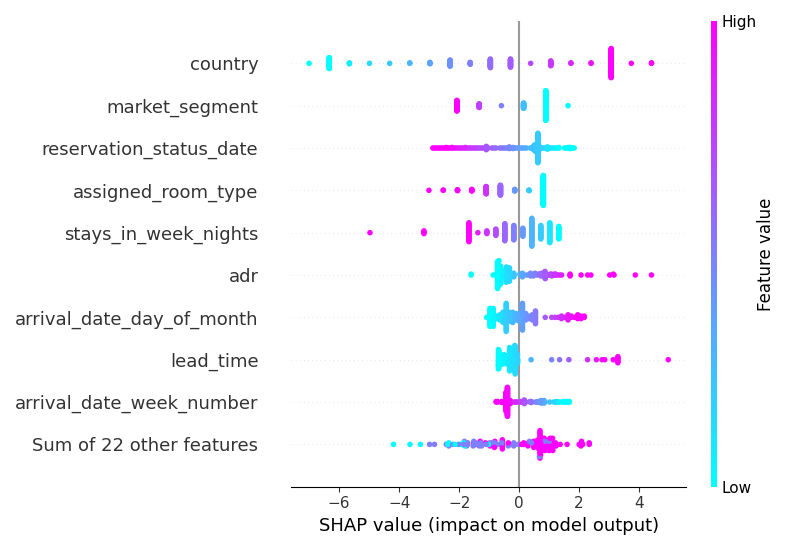
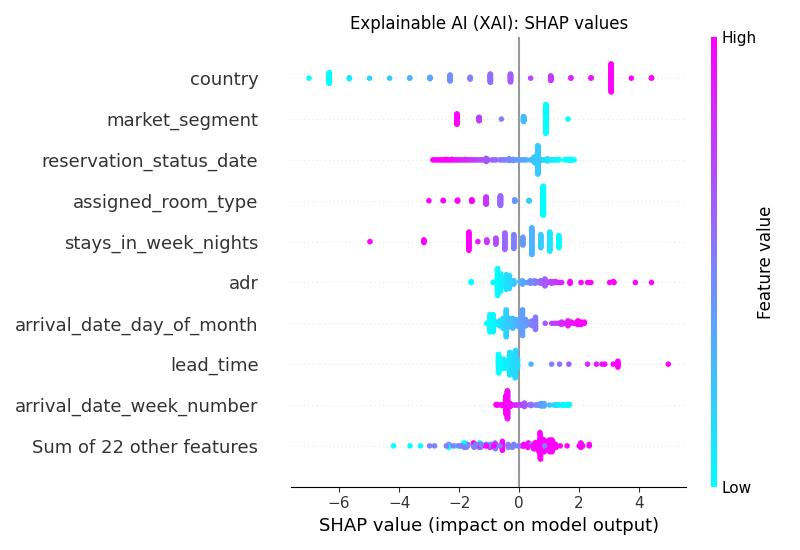
added a bar plot with the number of bookings per month

diff --git a/dash_app.py b/dash_app.py
@@ -52,7 +52,7 @@ TAKEN FROM 17
 The solution for applying bold text to a HTML header was taken from https://community.plotly.com/t/how-can-i-show-a-bold-text-output/52798
 
 TAKEN FROM 18
-The code for creating a bar plot and preparing its data using Plotly was taken from https://plotly.com/python/bar-charts/
+The code for creating a pie plot and preparing its data using Plotly was taken from https://plotly.com/python/pie-charts/
 
 TAKEN FROM 19
 The code for saving a static image using Plotly was taken from https://plotly.com/python/static-image-export/
@@ -62,6 +62,15 @@ The code for summing up values form a Pandas dataframe based on a condition was 
 
 TAKEN FROM 21
 The code for creating a sidebar using Bootstrap for Dash apps was taken from https://www.dash-bootstrap-components.com/examples/simple-sidebar/
+
+TAKEN FROM 22
+The code for using a grid for the website layout was taken from https://www.dash-bootstrap-components.com/docs/components/layout/
+
+TAKEN FROM 23
+The code for creating a bar plot and preparing its data using Plotly was taken from https://plotly.com/python/bar-charts/
+
+TAKEN FROM 24
+The code for using Boolean conditions in single code line for pandas dataframes was taken from https://stackoverflow.com/a/27360130
 """
 
 import random
@@ -89,7 +98,7 @@ max_iter_lr = 1000
 # TAKEN FROM START 1
 
 """
-Create a table with how many bookings the travel agents made and a bar chart displaying the number of bookings made with each TA
+Create a table with how many bookings the travel agents made and a pie chart displaying the number of bookings made with each TA
 """
 
 hotel_bookings_dataset = pd.read_csv("data/hotel_bookings.csv")
@@ -145,7 +154,7 @@ lr_model.fit(X_train, y_train)
 y_pred = lr_model.predict(X_test)
 accuracy = accuracy_score(y_test, y_pred)
 roc_auc = roc_auc_score(y_test, y_pred)
-print("Accuracy = ", accuracy)
+print("Prediction accuracy = ", accuracy)
 print("Area under the ROC curve = ", roc_auc)
 # TAKEN FROM END 4
 assert (accuracy >= 0.5)
@@ -161,17 +170,41 @@ shap_values = model_output_explainer(X_train)
 shap.plots.beeswarm(shap_values, color=plt.get_cmap("cool"), show=False)
 # TAKEN FROM END 9
 # TAKEN FROM START 10
+plt.title("Explainable AI (XAI): SHAP values")
 plt.savefig("assets/shap_values_beeswarm_plot.png")
 # TAKEN FROM END 10
 
 # TAKEN FROM START 18
-current_fig = px.bar(data_frame=travel_agents_and_no_bookings_dataframe,
-                     y=travel_agents_and_no_bookings_dataframe["No. of bookings"],
-                     x=travel_agents_and_no_bookings_dataframe["Travel Agent ID"],
+current_fig = px.pie(data_frame=travel_agents_and_no_bookings_dataframe,
+                     values=travel_agents_and_no_bookings_dataframe["No. of bookings"],
+                     names=travel_agents_and_no_bookings_dataframe["Travel Agent ID"],
                      color_discrete_sequence=px.colors.sequential.Plotly3)
 # TAKEN FROM END 18
 # TAKEN FROM START 19
-current_fig.write_image("assets/travel_agents_and_no_bookings_bar_plot.png")
+current_fig.write_image("assets/travel_agents_and_no_bookings_pie_plot.png")
+# TAKEN FROM END 19
+
+# TAKEN FROM START 6, 7
+no_bookings_per_month = hotel_bookings_dataset["arrival_date_month"].astype(int).value_counts()
+# TAKEN FROM END 6, 7
+# TAKEN FROM START 8
+no_bookings_per_month_dataframe = pd.DataFrame(data=no_bookings_per_month).reset_index()
+# TAKEN FROM END 8
+no_bookings_per_month_dataframe.columns = ["Month", "No. of bookings"]
+no_bookings_per_month_dataframe["Month"] = no_bookings_per_month_dataframe[
+    "Month"].astype(str)
+# TAKEN FROM START 24
+no_bookings_per_month_dataframe = no_bookings_per_month_dataframe.drop(
+    no_bookings_per_month_dataframe[no_bookings_per_month_dataframe["Month"] == "0"].index)
+# TAKEN FROM END 24
+# TAKEN FROM START 23
+current_fig = px.bar(data_frame=no_bookings_per_month_dataframe,
+                     y=no_bookings_per_month_dataframe["No. of bookings"],
+                     x=no_bookings_per_month_dataframe["Month"],
+                     color_discrete_sequence=px.colors.sequential.Plotly3)
+# TAKEN FROM END 23
+# TAKEN FROM START 19
+current_fig.write_image("assets/no_bookings_per_month_bar_plot.png")
 # TAKEN FROM END 19
 
 # TAKEN FROM START 21
@@ -218,23 +251,32 @@ content_statistics_bookings = html.Div([
     # TAKEN FROM START 13
     # TAKEN FROM START 15
     # TAKEN FROM START 17
+
     html.Div(children=[html.H1(children=html.B("Statistics about hotel bookings"))],
              style=dict(display="flex", justifyContent="center")),
     # TAKEN FORM END 17
-    html.Div(children=[html.H2(children="Travel agencies and the number of bookings that each one of them made:")],
-             style=dict(display="flex", justifyContent="center")),
     # TAKEN FROM END 15
-    dash_table.DataTable(data=travel_agents_and_no_bookings_dataframe.to_dict("records"),
-                         style_cell={"font_size": "20px",
-                                     "text_align": "center"}),
-    html.Div(children=[html.Img(src="assets/travel_agents_and_no_bookings_bar_plot.png", style={"height":"50%", "width":"50%"})],
-             style=dict(display="flex", justifyContent="center")),
-        # TAKEN FROM END 14
+    # TAKEN FROM START 22
+    dbc.Row([
+        dbc.Col(
+            html.Div(children=[
+                html.Img(src="assets/no_bookings_per_month_bar_plot.png",
+                         style={"height": "70%", "width": "70%"})],
+                style=dict(display="flex", justifyContent="center"))),
+        dbc.Col(
+            html.Div(children=[
+                html.Img(src="assets/travel_agents_and_no_bookings_pie_plot.png",
+                         style={"height": "70%", "width": "70%"})],
+                style=dict(display="flex", justifyContent="center")))
+    ]
+    )
+    # TAKEN FROM END 22
+    # TAKEN FROM END 14
 
 ])
 
 prediction_metrics_dataframe = pd.DataFrame(
-    data={"Metric": ["Accuracy", "Area under the ROC curve"], "Value": [0.87, 0.6]})
+    data={"Metric": ["Prediction accuracy", "Area under the ROC curve"], "Value": [0.87, 0.6]})
 
 content_prediction_metrics = html.Div([
     # TAKEN FROM START 13
@@ -243,21 +285,24 @@ content_prediction_metrics = html.Div([
     html.Div(children=[html.H1(children=html.B("Metrics for booking cancellation predictions"))],
              style=dict(display="flex", justifyContent="center")),
     # TAKEN FORM END 17
-    html.Div(children=[
-        dash_table.DataTable(data=prediction_metrics_dataframe.to_dict("records"),
-                             style_cell={"font_size": "20px",
-                                         "text_align": "center"})]),
-    html.Div(children=[
-        html.H2(
-            children="Explainable AI (XAI): SHAP values - The following features had the largest influence on the prediction of cancelled bookings during the ML model's training:")],
-        style=dict(display="flex", justifyContent="center")),
-    # TAKEN FROM END 15
-    # TAKEN FROM START 11
-    html.Div(children=[html.Img(src="assets/shap_values_beeswarm_plot.png")],
-             style=dict(display="flex", justifyContent="center")),
+    # TAKEN FROM START 22
+    dbc.Row([
+        dbc.Col(
+            html.Div(children=[
+                dash_table.DataTable(data=prediction_metrics_dataframe.to_dict("records"),
+                                     style_cell={"font_size": "20px",
+                                                 "text_align": "center"})])),
+        # TAKEN FROM END 15
+        # TAKEN FROM START 11
+        dbc.Col(
+            html.Div(children=[html.Img(src="assets/shap_values_beeswarm_plot.png")],
+                     style=dict(display="flex", justifyContent="center"))),
+    ])
+    # TAKEN FROM END 22
     # TAKEN FROM END 11
     # TAKEN FROM END 13
 ])
+
 
 # TAKEN FROM START 21
 @app.callback(Output("page-content", "children"), [Input("url", "pathname")])
@@ -275,6 +320,7 @@ def render_page_content(pathname):
         ],
         className="p-3 bg-light rounded-3",
     )
+
 
 if __name__ == "__main__":
     app.run(debug=True, port=8050)

diff --git a/README.md b/README.md
@@ -7,9 +7,11 @@
 
 The goal of the project is to analyze business problems related to hotel bookings.
 
-1. Which travel agents (TAs) are frequently used for making bookings?
+1. On which months do most stays start?
+&rarr; By knowing this, the room rates can be adjusted accordingly, depending on the season.
+2. Which travel agents (TAs) are frequently used for making bookings?
 &rarr; By identifying which TAs bring in several bookings, the properties/hotels could make better negotiations with them.
-2. Which bookings might be cancelled by the guests? Also, which factors influence this prediction?
+3. Which bookings might be cancelled by the guests? Also, which factors influence this prediction?
 &rarr; One important classification problem to be solved is to recognize when a booking will be cancelled. This could prevent customer churn and provide a better experience for the guests.
 Therefore, a machine learning model, namely logistic regression, is used for this classification task. By identifying guests who might cancel bookings, solutions such as offering flexible rebooking options could be employed [4].
 Furthermore, we are also interested in which features have the biggest impact on the model's output. For this purpose, SHAP values will be analyzed.
@@ -22,8 +24,9 @@ The data should be downloaded and placed in the "data" directory, which is insid
 
 # Analysis results
 
-1. Approximately 61% of the bookings are made by three TAs.
-2. The ML model's prediction accuracy is 87%, and the value of the area under the ROC curve is 0.6. 
+1. The most reservations start in September. 
+2. Approximately 61% of the bookings are made by three TAs.
+3. The ML model's prediction accuracy is 87%, and the value of the area under the ROC curve is 0.6. 
 By analyzing the SHAP values, it was observed that features such as the booking lead time ("lead_time") and average daily rate ("adr") have a great influence on the ML model's predictions.
 
 # Technical details
